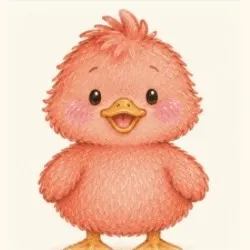
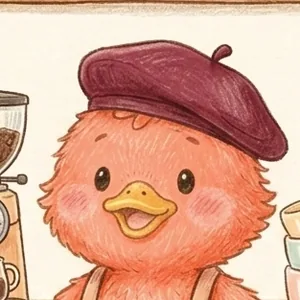
Batch 5 (partial): vessel shapes per drink type (6 mugs/6 glasses/6 chawan), recipe-correct iced americano/matcha/cocoa/hojicha/mocha, steam-milk scene, 4 new barista counters + random barista

diff --git a/app.js b/app.js
@@ -8,7 +8,6 @@ const KEY = 'ggcafe.moodcup.v1';
 /* ---------- data ---------- */
 const BARISTAS = [
   { k:'pe', th:'เป๊ะ', prop:'หมวกแก๊ปแดง', q:'', greet:'สวัสดีค่า~ วันนี้มู้ดไหนดี? เป๊ะชงให้เอง!', tail:' ก๊าบ!', quirk:'หัวหน้าบาร์ประจำร้าน ยิ้มเก่งที่สุด' },
-  { k:'sunny',   th:'ซันนี่',   prop:'หมวกกะลาสี',     q:'q-sway',   greet:'อะฮอย~ ยินดีต้อนรับขึ้นเรือคาเฟ่ของซันนี่!', tail:' ก๊าบ!',     quirk:'ชอบโยกตัวไปมาเหมือนอยู่บนเรือ' },
   { k:'berry',   th:'เบอร์รี่', prop:'หมวกเบเร่ต์',    q:'q-bounce', greet:'บองชูร์~ วันนี้เบอร์รี่ชงสไตล์ปารีสให้นะ', tail:' ซิลวูเปล้~', quirk:'ศิลปินลาเต้อาร์ตประจำร้าน' },
   { k:'moss',    th:'มอส',     prop:'ผ้าพันคอลายใบไม้', q:'q-nod',    greet:'สูดกลิ่นใบชาก่อน... อืม หอมจัง', tail:' ค่อยๆ นะ',   quirk:'สายมัทฉะตัวจริง ตีฟองนุ่มสุด' },
   { k:'momo',    th:'โมโม่',   prop:'แว่นกลม',        q:'q-nod',    greet:'โมโม่จดสูตรมาเป๊ะทุกกรัมเลยนะ!', tail:' ✎',  quirk:'ชั่งตวงละเอียดยิบทุกกรัม' },
@@ -22,7 +21,7 @@ const BARISTAS = [
   { k:'puddle',  th:'พัดเดิ้ล', prop:'หูฟังสีส้ม',      q:'q-bop',    greet:'เปิดเพลงชิลๆ แล้ว... ชงไปฟังไปกันนะ ♪', tail:' ♪',    quirk:'โยกหัวตามจังหวะเพลง' },
 ];
 const B = k => BARISTAS.find(b=>b.k===k) || BARISTAS[0];
-const RANDOM_BARISTA = false; // เปิดเมื่อ agy วาดน้องเป็ดครบ 12 ตัว
+const RANDOM_BARISTA = true;
 
 const MENU = [
   { k:'latte',      th:'ลาเต้',          p:75, cat:'coffee', img:'latte',       milk:1, art:1, desc:'เอสเปรสโซ่ + นมสตีมเนียนนุ่ม หอมละมุน' },
@@ -42,7 +41,9 @@ const menuNow = () => MENU.filter(m => !m.season || m.season.includes(new Date()
 const M = k => MENU.find(m=>m.k===k) || MENU[0];
 const isCoffee = m => m.cat==='coffee';
 const CAT = { coffee:{th:'กาแฟ',c:'#C79A6B'}, matcha:{th:'มัทฉะ',c:'#9DBF6A'}, other:{th:'อื่นๆ',c:'#F2A7A0'} };
-const TINT = { pumpkin:'#F6D9BE', xmascocoa:'#F3D3CF', glassmatcha:'#DCEBC7', icelatte:'#EEDCC8', hotmatcha:'#DCEBC7', latte:'#F3DCC4', americano:'#EBD9C8', mocha:'#ECD4C4', icematcha:'#DCEBC7', strawmatcha:'#F7D6E0', hojicha:'#EDD8C3', cocoa:'#EFDACE', usucha:'#D9EAD2' };
+const TINT_BASE = { pumpkin:'#F6D9BE', xmascocoa:'#F3D3CF', glassmatcha:'#DCEBC7', icelatte:'#EEDCC8', hotmatcha:'#DCEBC7', latte:'#F3DCC4', americano:'#EBD9C8', mocha:'#ECD4C4', icematcha:'#DCEBC7', strawmatcha:'#F7D6E0', hojicha:'#EDD8C3', cocoa:'#EFDACE', usucha:'#D9EAD2' };
+Object.assign(TINT_BASE,{ matcha:'#DCEBC7', matchalatte:'#E3EFD2', xmas:'#F3D3CF' });
+const TINT = new Proxy(TINT_BASE,{ get:(t,k)=> t[k] || t[String(k).split('-').pop()] || '#F8E6CF' });
 const CUPS = [ {k:'tumbler',th:'แก้วใสทรงสูง'}, {k:'mug',th:'แก้วมัค'}, {k:'paper',th:'แก้วกระดาษ'}, {k:'glass',th:'แก้วใสทรงเตี้ย'} ];
 const SLEEVES = [ {k:'none',c:null,th:'ไม่มี'}, {k:'peach',c:'#F8C4A4'}, {k:'butter',c:'#FFE08A'}, {k:'rose',c:'#F4A9B8'}, {k:'mint',c:'#BFE3C4'}, {k:'sky',c:'#B8DCF2'}, {k:'lilac',c:'#D5C4F0'}, {k:'gold',c:'#E9B949',th:'สีทอง'} ];
 const STK = ['heart','star','flower','smile','leaf','cat','crown','duck'];
@@ -80,18 +81,34 @@ const CUP_ART = {
   mug:    { coffee:'latte', cocoa:'cocoa', matcha:'hotmatcha', pumpkin:'pumpkin', xmas:'xmascocoa' },
   paper:  { coffee:'americano', cocoa:'americano', matcha:'americano', pumpkin:'americano', xmas:'americano' },
 };
-const CUPS_BY_TEMP = { hot:['mug','paper'], iced:['tumbler','glass'] };
-const cupsFor = d => CUPS.filter(c => CUPS_BY_TEMP[tempOf(d)].includes(c.k));
-const fixCup = d => { if (!CUPS_BY_TEMP[tempOf(d)].includes(d.cup)) d.cup = tempOf(d)==='iced' ? 'tumbler' : 'mug'; };
+/* vessels: the cup IS the shape choice; every vessel shows the actual drink (agy drawings) */
+const VESSELS = {
+  mug:  [ {k:'mug1',th:'มัคครีมโบว์ชมพู'}, {k:'mug2',th:'มัคสีชมพู'}, {k:'mug3',th:'มัคเขียวเดซี่'}, {k:'mug4',th:'มัคบับเบิ้ล'}, {k:'mug5',th:'มัคแก้วลอนผูกโบว์'}, {k:'mug6',th:'มัคลายจุดขอบชมพู'} ],
+  glass:[ {k:'gl1',th:'แก้วทัมเบลอร์'}, {k:'gl2',th:'แก้วทรงสูง'}, {k:'gl3',th:'แก้วลอนซ้อน'}, {k:'gl4',th:'แก้วบับเบิ้ล'}, {k:'gl5',th:'แก้วทรงกระป๋อง'}, {k:'gl6',th:'แก้วร็อก'} ],
+  bowl: [ {k:'bw1',th:'ยูกิ ชิโนะ'}, {k:'bw2',th:'โอริเบะ เขียว'}, {k:'bw3',th:'โอริเบะ ชิโนะ'}, {k:'bw4',th:'ไอวอรี่ กรีน'}, {k:'bw5',th:'เบจ กรีน'}, {k:'bw6',th:'บราวน์ กรีน ดริป'} ],
+  straw:[ {k:'straw',th:'แก้วสตรอว์เบอร์รี'} ],
+};
+const VESSEL_KEYS = Object.values(VESSELS).flat().map(v=>v.k);
+const vesselType = d => { const m=M(d.drink); if (m.k==='strawmatcha') return 'straw'; if (tempOf(d)==='iced') return 'glass'; return m.k==='usucha' ? 'bowl' : 'mug'; };
+const VARIANT = {
+  mug:  { latte:'latte', cappuccino:'latte', mocha:'mocha', americano:'americano', hojicha:'hojicha', cocoa:'cocoa', pumpkin:'pumpkin', xmascocoa:'xmas', matchalatte:'matcha' },
+  glass:{ latte:'latte', cappuccino:'latte', dirty:'latte', mocha:'mocha', americano:'americano', matchalatte:'matcha', hojicha:'hojicha', cocoa:'cocoa' },
+  bowl: { usucha:'usucha' },
+};
+const cupsFor = d => VESSELS[vesselType(d)];
+const fixCup = d => { const L=cupsFor(d); if (!L.some(v=>v.k===d.cup)) d.cup = L[0].k; };
+const vesselArt = e => { const t=VESSEL_KEYS.includes(e.cup) ? (e.cup==='straw'?'straw':e.cup.slice(0,2)==='gl'?'glass':e.cup.slice(0,2)==='bw'?'bowl':'mug') : null; if(!t) return null; if (t==='straw') return 'strawmatcha'; const v=VARIANT[t][M(e.drink).k]; return v ? `v-${e.cup}-${v}` : null; };
 /* tidy overlays placed per drawing (percent of the 100×100 art box) */
 const ART_FX = {
+  bw1:{steam:[16,[36,48,60]]}, bw2:{steam:[16,[36,48,60]]}, bw3:{steam:[16,[36,48,60]]}, bw4:{steam:[16,[36,48,60]]}, bw5:{steam:[18,[36,48,60]]}, bw6:{steam:[18,[36,48,60]]},
+  mug1:{steam:[13,[26,37,48]]}, mug2:{steam:[13,[26,37,48]]}, mug3:{steam:[13,[28,39,50]]}, mug4:{steam:[15,[24,35,46]]}, mug5:{steam:[15,[28,39,50]]}, mug6:{steam:[13,[27,38,49]]},
   icelatte:{ ice:[[38,25],[56,23],[47,32],[64,31],[32,34],[54,40]] }, icematcha:{ ice:[[38,25],[56,23],[47,32],[64,31],[32,34],[54,40]] },
   strawmatcha:{ ice:[[38,19],[56,17],[47,26],[64,25],[32,28],[56,33]] },
   mocha:{ ice:[[36,51],[52,50],[66,52],[29,60],[71,60],[44,56]] }, glassmatcha:{ ice:[[36,51],[52,50],[66,52],[29,60],[71,60],[44,56]] },
   latte:{ steam:[22,[36,48,60]] }, pumpkin:{ steam:[22,[36,48,60]] }, xmascocoa:{ steam:[11,[38,50,62]] }, hotmatcha:{ steam:[22,[36,48,60]] }, cocoa:{ steam:[11,[38,50,62]] }, americano:{ steam:[15,[42,52,62]] },
 };
 function artFX(e){
-  const fx = ART_FX[imgOf(e)]; if (!fx) return '';
+  const im0=imgOf(e), fx = ART_FX[im0] || ART_FX[im0.split("-")[1]]; if (!fx) return '';
   if (tempOf(e)==='iced' && fx.ice){ const n=(ICES.find(i=>i.k===(e.ice||'normal'))||ICES[2]).n; if(!n) return '';
     const rot=[-12,9,3,-16,14,-5];
     return `<svg class="artfx" viewBox="0 0 100 100" aria-hidden="true"><g filter="url(#wob)">${fx.ice.slice(0,n).map(([x,y],i)=>`<g class="cube" transform="translate(${x} ${y}) rotate(${rot[i]})" style="animation-delay:${i*.07}s"><rect x="-4.6" y="-4.6" width="9.2" height="9.2" rx="2.4" fill="rgba(255,255,255,.62)" stroke="#8A7262" stroke-width=".8" stroke-opacity=".8"/><rect x="-4.6" y="1.2" width="9.2" height="3.4" rx="1.6" fill="rgba(170,200,220,.28)"/><path d="M-2.8 -2.4 L-.4 -3.2" stroke="#fff" stroke-width="1.3" stroke-linecap="round"/></g>`).join('')}</g></svg>`; }
@@ -99,7 +116,7 @@ function artFX(e){
     return `<svg class="artfx" viewBox="0 0 100 100" aria-hidden="true">${xs.map((x,i)=>{ const d=`M${x} ${y} q-4 -5 0 -10 q4 -5 0 -10`; return `<g class="steam" style="animation-delay:${i*.6}s"><path d="${d}" fill="none" stroke="#B49478" stroke-opacity=".45" stroke-width="3.4" stroke-linecap="round"/><path d="${d}" fill="none" stroke="#fff" stroke-width="1.8" stroke-linecap="round"/></g>`; }).join('')}</svg>`; }
   return '';
 }
-const imgOf = e => { const m=M(e.drink), c=CUP_ART[e.cup]; if(!c) return m.img; return (m.k==='strawmatcha' && c.straw) || c[famOf(m)] || m.img; };
+const imgOf = e => { const va=vesselArt(e); if (va) return va; const m=M(e.drink), c=CUP_ART[e.cup]; if(!c) return m.img; return (m.k==='strawmatcha' && c.straw) || c[famOf(m)] || m.img; };
 /* duck replies matching the mood */
 const MOOD_REPLY = {
   happy:'ดีใจด้วยน้า~ วันสดใสแบบนี้ต้องฉลองด้วยแก้วโปรด',
@@ -163,8 +180,9 @@ function showTab(on){ $('#tabbar').classList.toggle('hide', !on); $('#tabfade').
 
 /* counter scene: image + barista + counter-front layer (keeps barista behind the counter) */
 const COUNTER = { ar:'612/819', duck:{l:44,t:39,w:39}, front:74.5, board:{l:42.5,t:13.2,w:54.5,h:25} };
+const COUNTER_ART = ['pe','berry','moss','momo','bobby'];
 function counterScene(b, extra=''){
-  return `<div class="cs" style="aspect-ratio:${COUNTER.ar}"><img class="bg" src="${IMG}counter.webp" alt="หน้าร้านก๊าบก๊าบคาเฟ่ กับบาริสต้าเป๊ะ">${extra}</div>`;
+  return `<div class="cs" style="aspect-ratio:${COUNTER.ar}"><img class="bg" src="${IMG}counter-${COUNTER_ART.includes(b.k)?b.k:'pe'}.webp" alt="หน้าร้านก๊าบก๊าบคาเฟ่ กับบาริสต้า${esc(b.th)}">${extra}</div>`;
 }
 /* ---------- views ---------- */
 function render(){
@@ -228,7 +246,8 @@ function enterCafe(){
   S.edit = !!db.entries[todayKey()] && S.edit;
   if (!S.edit){
     const last = db.lastBarista; let pick='pe';
-    if (RANDOM_BARISTA) do { pick = BARISTAS[1+Math.floor(Math.random()*(BARISTAS.length-1))].k; } while (pick===last);
+    const pool = BARISTAS.filter(b=>COUNTER_ART.includes(b.k));
+    if (RANDOM_BARISTA && pool.length>1) do { pick = pool[Math.floor(Math.random()*pool.length)].k; } while (pick===last);
     S.barista = pick; db.lastBarista = pick; save();
   }
   S.draft = Object.assign({ drink:'latte' }, OPT_DEF, S.draft||{});
@@ -300,7 +319,7 @@ function brewView(){
   <div class="steps">${S.steps.map((s,i)=>`<div class="st ${i<S.si?'d':i===S.si?'on':''}"><b class="hd thin">${i<S.si?'✓':i+1}</b>${STEP_SHORT[s]}</div>`).join('')}</div>
   <div class="stage hd" id="stage">
     ${preview ? `<div style="position:absolute;inset:0;background:radial-gradient(circle at 40% 45%,#FFF3D9,#F8E6CF)"></div><div class="preview" style="position:absolute;left:24px;top:30px;width:200px;height:200px;margin:0">${stampHTML(S.draft,{face:false})}</div>${stars([[24,20,14],[220,30,12,.5],[200,240,16,1]])}`
-      : `<img class="bg ${coffeeBg?"coffee":"matcha"}" src="${IMG}${coffeeBg?"coffee":"matcha"}.webp" alt="">`}
+      : `<img class="bg ${coffeeBg?"coffee":"matcha"}" src="${IMG}${(['milk','art'].includes(st) && m.milk && tempOf(S.draft)==='hot')?"steam":coffeeBg?"coffee":"matcha"}.webp" alt="">`}
     ${preview?`<span class="duckglow"></span><img class="duck" src="${bImg(b.k)}" alt="">`:""}
     <div class="bubble" id="bub" ${preview?'style="left:auto;right:12px;top:12px;max-width:150px"':''}>${esc(say(st))}</div>
     <div class="fx" id="fx">${fxHTML(st)}</div>
@@ -328,7 +347,7 @@ function ctrlHTML(st){
     case 'milk2': return `<div class="lbl">นม${m.straw?' (มีสตรอว์เบอร์รีบดรองแก้วแล้ว ✓)':''}</div>${chips(MILKS,d.milk,'set-milk')}<button class="btn wide yel" style="margin-top:12px" data-act="coldmilk">${P.milk?'เทนมแล้ว ✓':d.temp==='iced'?'เทนมเย็น 🥛':'เทนมอุ่น 🥛'}</button>${orderTag(d)}`;
     case 'ice': { const n=(ICES.find(i=>i.k===d.ice)||ICES[2]).n; return `<div class="lbl">ปริมาณน้ำแข็ง</div>${chips(ICES.filter(i=>i.n),d.ice,'set-ice')}${gauge('g1',Math.min(100,(S.icen||0)*100/n))}<div class="gmeta"><span id="gm">${P.ice?`น้ำแข็ง ${n} ก้อน ✓`:`ตักแล้ว ${S.icen||0}/${n} ก้อน`}</span><span>แตะทีละก้อน</span></div><button class="btn wide yel" style="margin-top:12px" data-act="scoop">${P.ice?'น้ำแข็งครบแล้ว ✓':'ตักน้ำแข็ง 🧊'}</button>`; }
     case 'top': return `<div class="lbl">ท็อปปิ้ง</div>${chips(TOPS,d.topping,'set-top')}<div class="lbl">ความหวาน</div>${chips(SWEETS,d.sweet,'set-sweet')}`;
-    case 'cup': { const L=cupsFor(d); return `<div class="cups" style="margin-top:12px;grid-template-columns:repeat(${L.length},1fr)">${L.map(c=>`<button class="cupopt hd ${d.cup===c.k?'on':''}" data-act="set-cup" data-k="${c.k}"><img src="${IMG}d-${imgOf(Object.assign({},d,{cup:c.k}))}.webp" alt="">${c.th}</button>`).join('')}</div><div class="sub" style="font-size:12px;margin-top:8px">${tempOf(d)==='iced'?'เครื่องดื่มเย็น: เสิร์ฟในแก้วใส':'เครื่องดื่มร้อน: เสิร์ฟในแก้วมัคหรือแก้วกระดาษ'}</div>`; }
+    case 'cup': { const L=cupsFor(d); return `<div class="cups" style="margin-top:12px;grid-template-columns:repeat(${Math.min(3,L.length)},1fr)">${L.map(c=>`<button class="cupopt hd ${d.cup===c.k?'on':''}" data-act="set-cup" data-k="${c.k}"><img src="${IMG}d-${imgOf(Object.assign({},d,{cup:c.k}))}.webp" alt="">${c.th}</button>`).join('')}</div><div class="sub" style="font-size:12px;margin-top:8px">${({glass:'เครื่องดื่มเย็น: เลือกทรงแก้วใสที่ชอบ',mug:'เครื่องดื่มร้อน: เลือกแก้วมัคเซรามิกที่ชอบ',bowl:'อุสุฉะ: เสิร์ฟในถ้วยชาวันแบบญี่ปุ่น เลือกลายเคลือบได้',straw:'เมนูนี้เสิร์ฟในแก้วใสทรงสูงแบบเดียว'})[vesselType(d)]}</div>`; }
     case 'deco': return `<div class="lbl">สีปลอกแก้ว</div><div class="chips">${SLEEVES.map(s=>{ const L=lockOf('sleeve',s.k); return `<button class="sw hd thin ${s.c?'':'none'} ${d.sleeve===s.k?'on':''} ${L?'locked':''}" style="${s.c?`background:${s.c}`:''}" data-act="set-sleeve" data-k="${s.k}" aria-label="${s.th||s.k}${L?' (ล็อก)':''}">${L?'🔒':''}</button>`; }).join('')}</div><div class="lbl">สติกเกอร์ (${d.stickers.length}/3)</div><div class="chips">${STK.map(k=>{ const L=lockOf('sticker',k); return `<button class="stkbtn hd thin ${d.stickers.includes(k)?'on':''} ${L?'locked':''}" data-act="stk" data-k="${k}" aria-label="${k}${L?' (ล็อก)':''}">${miniSticker(k)}${L?'<i class="lk">🔒</i>':''}</button>`; }).join('')}</div><div class="sub" style="font-size:11.5px;margin-top:8px">🔒 ปลดล็อกของพิเศษเมื่อสะสมแสตมป์ติดกัน 7 / 14 / 30 วัน</div>`;
     case 'mood': return `<div class="chips" style="margin-top:12px">${MOODS.map(x=>`<button class="moodbtn hd thin ${d.mood===x.k?'on':''}" data-act="set-mood" data-k="${x.k}">${faceSVG(x.k,34)}${x.th}</button>`).join('')}</div><div class="lbl">วันนี้เป็นไง? (หนึ่งบรรทัด ไม่ใส่ก็ได้)</div><input id="note" class="noteline" type="text" maxlength="60" enterkeyhint="done" placeholder="เช่น ประชุมเยอะ แต่กาแฟอร่อย" value="${esc(d.note)}">`;
   }
@@ -346,7 +365,7 @@ function fxHTML(st){
 }
 function orderTag(d){ const t=tempOf(d); return `<div class="otag hd thin">ออเดอร์: <b>${t==='iced'?'🧊 เย็น':'☕ ร้อน'}</b>${t==='iced'?` · ${(ICES.find(i=>i.k===d.ice)||{}).th}`:''} · ${(SIZES.find(z=>z.k===d.size)||{}).th} · ${(SWEETS.find(x=>x.k===d.sweet)||{}).th}${M(d.drink).milk?` · ${(MILKS.find(x=>x.k===d.milk)||{}).th}`:''}</div>`; }
 function iceGlass(n, have){
-  return `<div class="iceart"><img src="${IMG}d-${imgOf(Object.assign({},S.draft,{cup:'tumbler'}))}.webp" alt=""><b>🧊 ${have}/${n}</b></div>`;
+  return `<div class="iceart"><img src="${IMG}d-${imgOf(Object.assign({},S.draft,{cup:vesselType(S.draft)==='glass'?S.draft.cup:'tumbler'}))}.webp" alt=""><b>🧊 ${have}/${n}</b></div>`;
 }
 function thermo(t){ const f=Math.max(0,Math.min(1,(t-20)/80)); return `<svg width="40" height="96" viewBox="0 0 40 96" style="filter:url(#wob)"><rect x="13" y="6" width="14" height="66" rx="7" fill="#FFFDF7" stroke="#5A4636" stroke-width="2.4"/><rect x="17" y="${68-56*f}" width="6" height="${56*f+6}" rx="3" fill="#E8896A"/><circle cx="20" cy="80" r="11" fill="#E8896A" stroke="#5A4636" stroke-width="2.4"/><text x="20" y="95" text-anchor="middle" font-size="0">.</text></svg><div style="font:700 13px Mali;background:#FFFDF7;border-radius:8px;padding:0 6px;margin-top:2px">${Math.round(t)}°C</div>`; }
 function artPath(a){
@@ -452,7 +471,7 @@ function detailSheet(k){
 }
 function aboutSheet(){
   openSheet(`<div class="H">เกี่ยวกับ & เครดิต</div><p style="font-size:14px;line-height:1.6;margin-top:8px">ก๊าบก๊าบคาเฟ่ · MOOD CUP คือสมุดสะสมมู้ดประจำวัน ทุกวันเข้าร้าน เจอบาริสต้าน้องเป็ดแบบสุ่ม ชงเครื่องดื่มเองทีละขั้น แล้วเก็บเป็นแสตมป์ ข้อมูลทั้งหมดเก็บใน localStorage ของเครื่องนี้เท่านั้น</p>
-  <div class="lbl">น้องเป็ดที่จะมาเป็นบาริสต้าเร็วๆ นี้</div><div style="display:grid;grid-template-columns:repeat(4,1fr);gap:8px">${BARISTAS.slice(1).map(b=>`<div style="text-align:center;font:600 11.5px Mali"><img src="${bImg(b.k)}" alt="" style="width:100%;aspect-ratio:1;object-fit:cover;mix-blend-mode:multiply;border-radius:14px">${b.th}</div>`).join('')}</div>
+  <div class="lbl">น้องเป็ดบาริสต้าประจำร้าน (สุ่มมาชงให้ทุกวัน)</div><div style="display:grid;grid-template-columns:repeat(4,1fr);gap:8px">${BARISTAS.slice(1).map(b=>`<div style="text-align:center;font:600 11.5px Mali"><img src="${bImg(b.k)}" alt="" style="width:100%;aspect-ratio:1;object-fit:cover;mix-blend-mode:multiply;border-radius:14px">${b.th}</div>`).join('')}</div>
   <div class="lbl">เครดิตภาพ</div><ul style="font-size:13px;line-height:1.7;padding-left:18px">
   <li>หน้าร้าน บาร์กาแฟ บาร์มัทฉะ และแสตมป์เครื่องดื่ม: วาดด้วย <b>agy (Google Antigravity CLI)</b></li><li>บาริสต้าเป๊ะ: วาดด้วย agy · น้องเป็ดอีก 12 ตัว (ภาพในหน้านี้จากชีตตัวละคร Duckling Sort) กำลังวาดด้วย agy แล้วจะสุ่มมาเป็นบาริสต้า</li>
   <li>สติกเกอร์ หน้ามู้ด เส้นวาดมือ และกราฟ: SVG ที่เขียนด้วยโค้ด</li><li>ฟอนต์: Itim, Mali, Sriracha (Google Fonts)</li><li>เพลงโลไฟ: Seth_Makes_Sounds · เสียงบรรยากาศร้าน: Anya_Media (Freesound, CC0) · เสียงเอฟเฟกต์: Kenyset</li></ul>`);

diff --git a/index.html b/index.html
@@ -10,7 +10,7 @@
 <link rel="preconnect" href="https://fonts.googleapis.com">
 <link rel="preconnect" href="https://fonts.gstatic.com" crossorigin>
 <link href="https://fonts.googleapis.com/css2?family=Itim&family=Mali:wght@400;500;600;700&family=Sriracha&display=swap" rel="stylesheet">
-<link rel="stylesheet" href="style.css?v=7">
+<link rel="stylesheet" href="style.css?v=8">
 </head>
 <body>
 <svg width="0" height="0" style="position:absolute" aria-hidden="true"><defs>
@@ -45,8 +45,8 @@
   <div class="toast" id="toast"></div>
   <canvas id="confetti"></canvas>
 </div>
-<script src="sfx.js?v=7"></script>
-<script src="art.js?v=7"></script>
-<script src="app.js?v=7"></script>
+<script src="sfx.js?v=8"></script>
+<script src="art.js?v=8"></script>
+<script src="app.js?v=8"></script>
 </body>
 </html>

diff --git a/qc_order.py b/qc_order.py
@@ -8,7 +8,10 @@ def shot(pg,n,full=False): pg.wait_for_timeout(600); pg.screenshot(path=f'shots/
 def hold(pg,sel,ms):
     b=pg.locator(sel).first.bounding_box(); pg.mouse.move(b['x']+b['width']/2,b['y']+b['height']/2); pg.mouse.down(); pg.wait_for_timeout(ms); pg.mouse.up(); pg.wait_for_timeout(250)
 def nxt(pg):
-    pg.wait_for_selector('#nextBtn:not([disabled])',timeout=8000); pg.click('#nextBtn'); pg.wait_for_timeout(300)
+    try: pg.wait_for_selector('#nextBtn:not([disabled])',timeout=8000)
+    except Exception:
+        pg.screenshot(path=f'shots/{tag}-STUCK.png'); errs.append('stuck at '+cur(pg)); return
+    pg.click('#nextBtn'); pg.wait_for_timeout(300)
 def cur(pg): return pg.evaluate("document.querySelector('.st.on')?.textContent||''")
 def order(pg, cat, item, temp, ice=None, size='L', sweet='25', milk=None):
     pg.goto(URL); pg.evaluate('localStorage.clear()'); pg.reload(); pg.wait_for_timeout(800)
@@ -68,14 +71,14 @@ with sync_playwright() as p:
     print('hidden playing', pg.evaluate("SFX.playing"))
     pg.evaluate("Object.defineProperty(document,'hidden',{configurable:true,get:()=>false});document.dispatchEvent(new Event('visibilitychange'))"); pg.wait_for_timeout(1500)
     print('visible playing', pg.evaluate("SFX.playing"))
-    final_cup[0]='mug'
+    final_cup[0]='gl2'
     st=pg.evaluate("[!!window.SFX, SFX.muted]"); print('sfx',st)
     brew(pg,True,'21-coffee-iced')
-    final_cup[0]='tumbler'
+    final_cup[0]='mug3'
     order(pg,'coffee','ลาเต้','hot',None,'S','50'); shot(pg,'22-coffee-hot-order'); brew(pg,True,'23-coffee-hot')
-    final_cup[0]='glass'
+    final_cup[0]='gl4'
     order(pg,'matcha','มัทฉะลาเต้','iced','less','M','0','soy'); shot(pg,'24-matcha-iced-order'); brew(pg,False,'25-matcha-iced')
-    final_cup[0]='mug'
+    final_cup[0]='mug5'
     order(pg,'matcha','มัทฉะลาเต้','hot',None,'M','100'); brew(pg,False,'26-matcha-hot')
     pg.click('[data-act=home]'); pg.click('.hero [data-act=detail]'); shot(pg,'27-detail')
     print('detail img', pg.evaluate("document.querySelector('.sheet .stamp>img').getAttribute('src')"))
